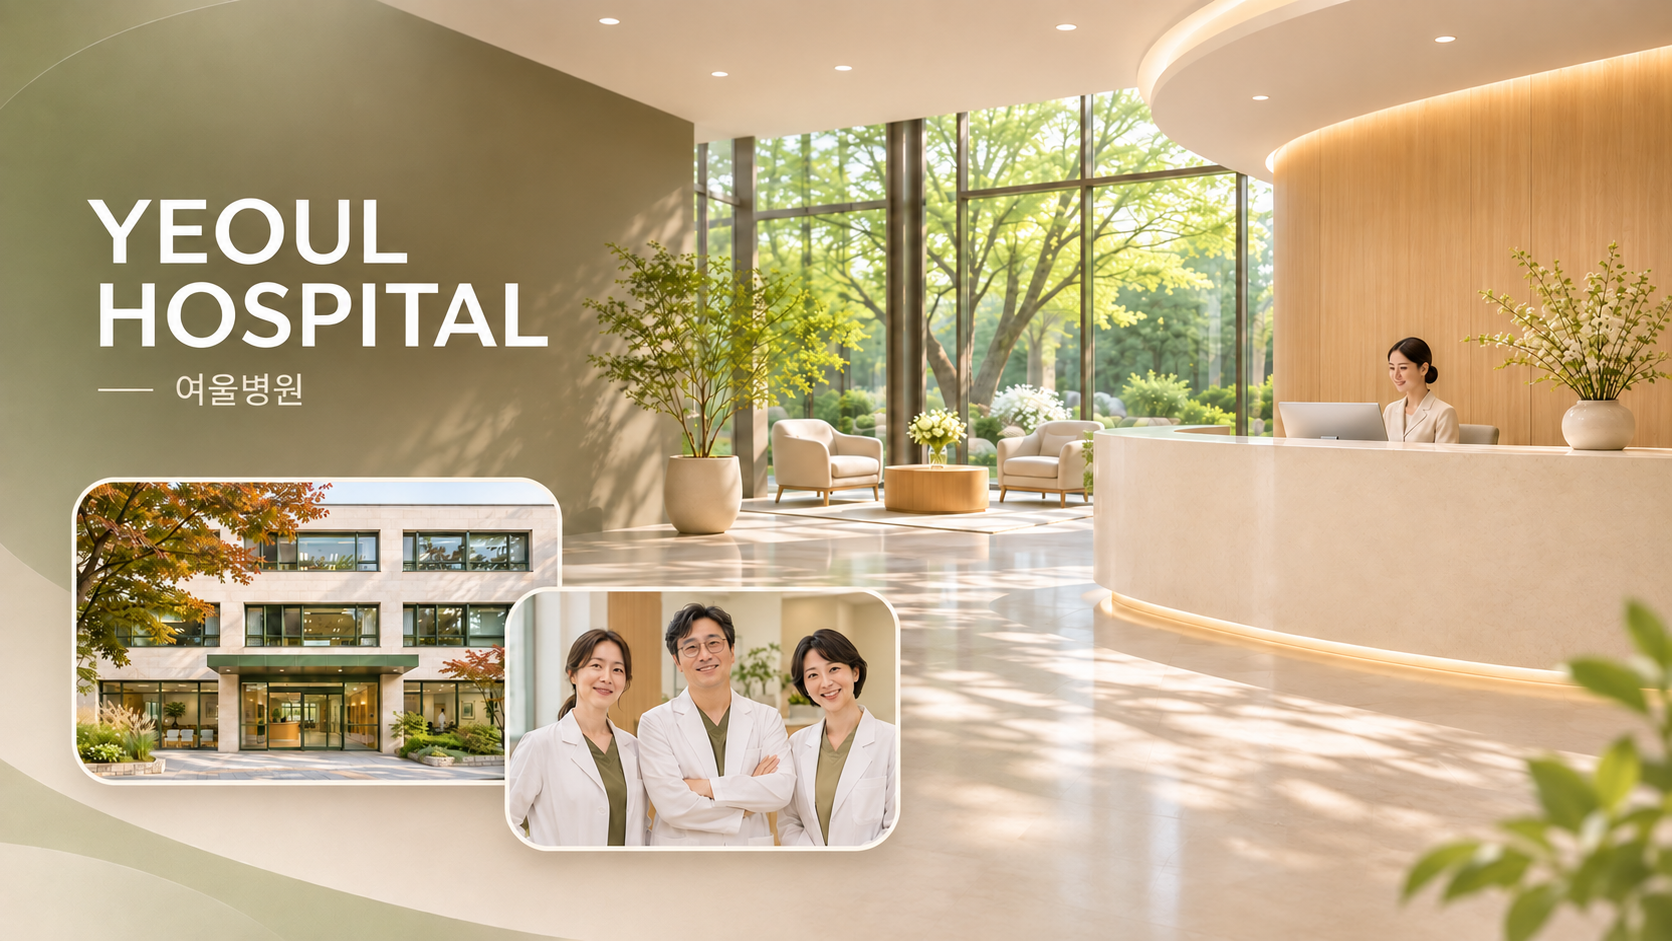
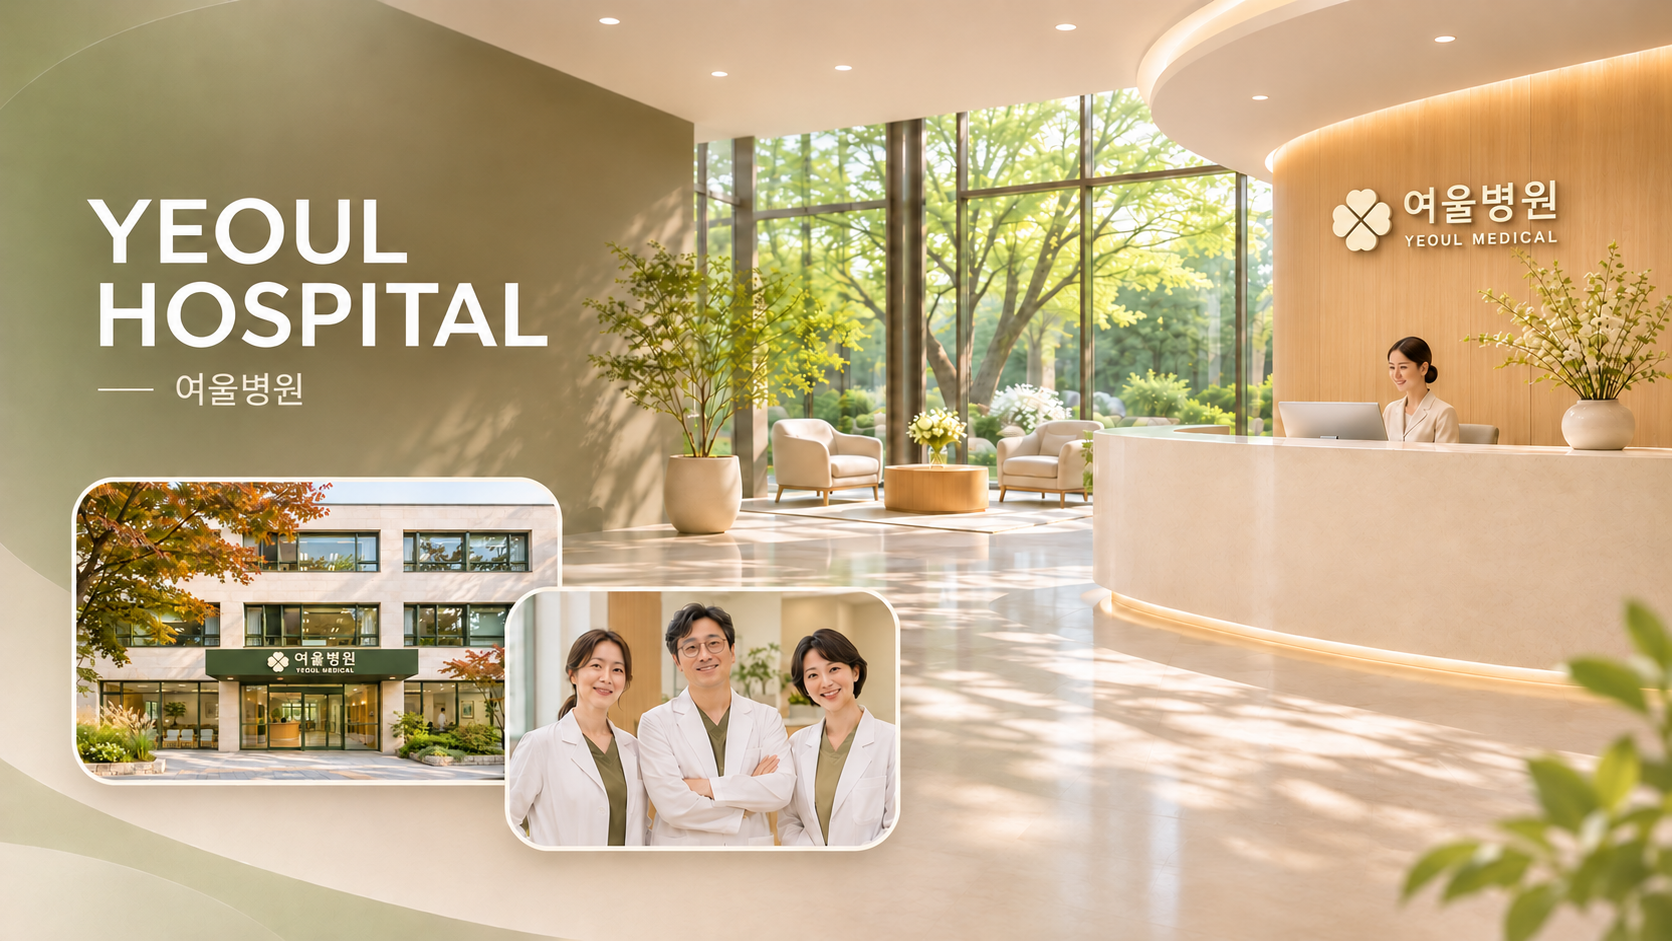
Update portfolio

diff --git a/src/data/projects.js b/src/data/projects.js
@@ -52,7 +52,7 @@ export const projects = [
 },
 {
   slug: 'yeoul-hospital',
-  period: '2026.11.06 - 2026.진행중',
+  period: '2026.10.30 - 2026.11.12',
   title: '여울병원',
   categories: ['Personal', 'Corporate'],
   type: 'Hospital Website',
